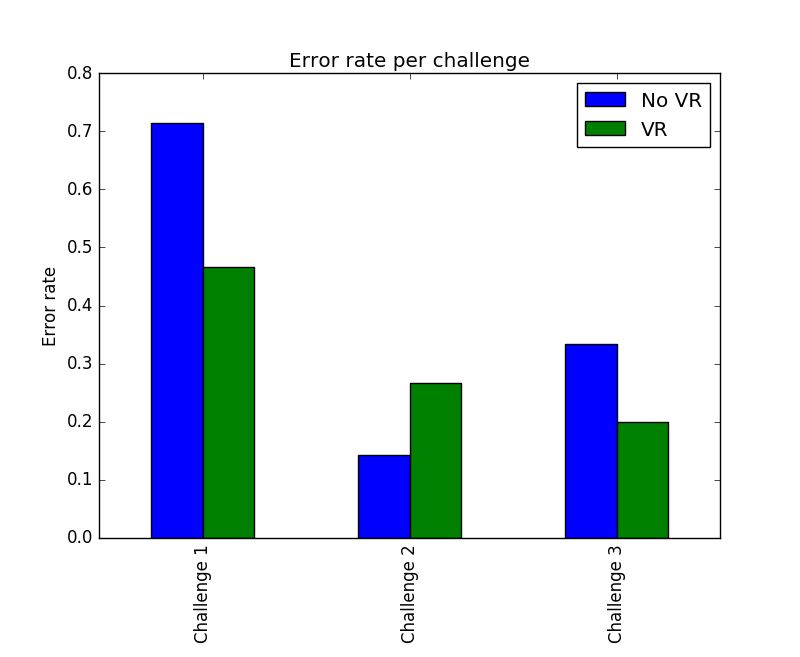
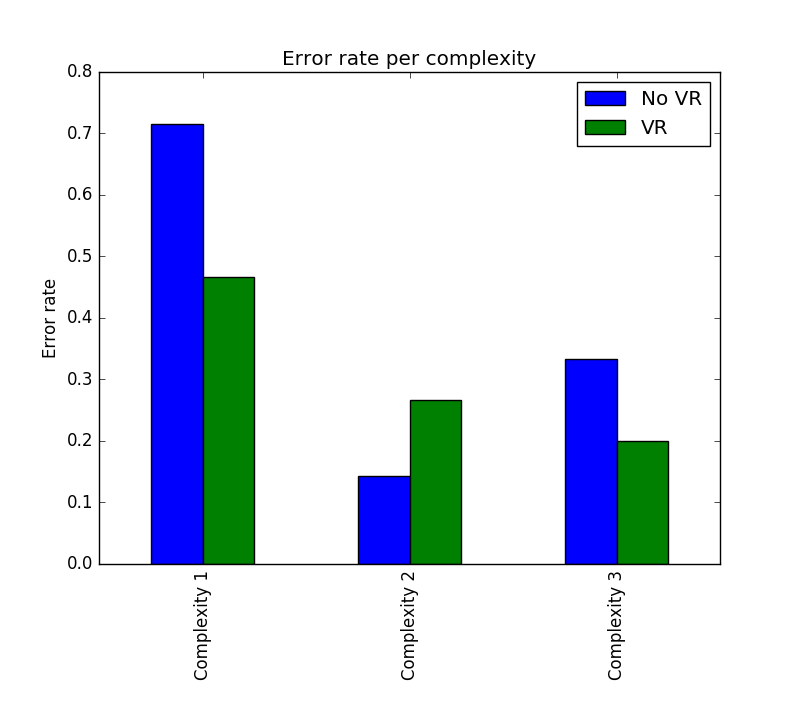
Bar plot changed

diff --git a/results/statistic.py b/results/statistic.py
@@ -23,14 +23,14 @@ print ("Percentage of correct anwsers with VR: {0:.2f}%".format(percentage))
 print ("Error rate with VR: {0:.2f}\n".format(error))
 
 # Plot error rate evolution according to complexity
-df = pd.DataFrame(np.nan, index=['Challenge 1','Challenge 2','Challenge 3'], columns=['No VR','VR'])
+df = pd.DataFrame(np.nan, index=['Complexity 1','Complexity 2','Complexity 3'], columns=['No VR','VR'])
 for i in range (1,4):
     errorNVR = novr['Correct Answer'].loc[(novr['Correct Answer'] == 0) & (novr['Challenge'] == i)].count() / novr['Correct Answer'].loc[novr['Challenge'] == i].count()
     errorVR = vr['Correct Answer'].loc[(vr['Correct Answer'] == 0) & (vr['Challenge'] == i)].count() / vr['Correct Answer'].loc[vr['Challenge'] == i].count()
-    df.xs('Challenge ' + str(i))[:] = [errorNVR,errorVR]
+    df.xs('Complexity ' + str(i))[:] = [errorNVR,errorVR]
 fig = df.plot.bar()
 fig.set_ylabel("Error rate") 
-fig.set_title("Error rate per challenge") 
+fig.set_title("Error rate per complexity") 
 plt.show()
 
 # Mean time for answering Non-VR vs VR per challenge and total
